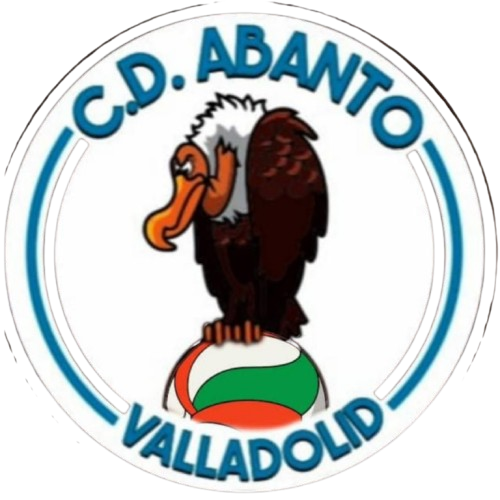
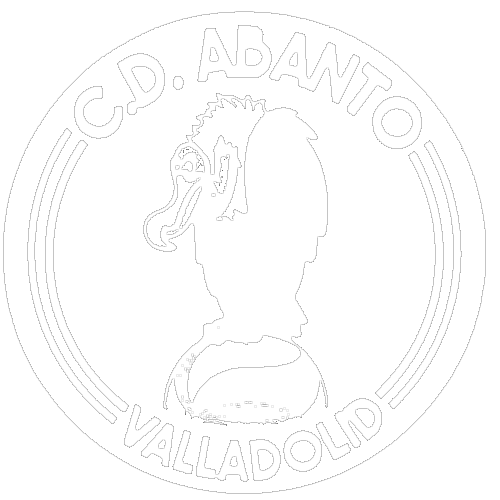
feat(escudos): actualizar escudos a blanco sin fondo de Pegamo Abanto y CVNSL Arroyo con refresco de cache

diff --git a/js/cartelera.js b/js/cartelera.js
@@ -91,8 +91,8 @@ window.renderCarteleraHTML = function(data) {
 
                 let safeLocalName = localTeamName.toLowerCase().normalize("NFD").replace(/[\u0300-\u036f]/g, "").replace(/\s+/g, '_').replace(/[^a-z0-9_]/g, '');
                 let safeVisitName = visitTeamName.toLowerCase().normalize("NFD").replace(/[\u0300-\u036f]/g, "").replace(/\s+/g, '_').replace(/[^a-z0-9_]/g, '');
-                let localLogo = `<picture><source srcset="files/images/escudos/${safeLocalName}.webp?v=20261102_v9" type="image/webp"><img loading="lazy" src="files/images/escudos/${safeLocalName}.png?v=20261102_v9" alt="${localTeamName}" onload="this.parentNode.parentNode.style.border='none'; this.parentNode.parentNode.style.background='transparent';" onerror="this.onerror=null; this.parentNode.outerHTML='<span style=\\'font-weight:900; font-size: 1.2rem;\\'>${localAbrev}</span>';" style="width:100%; height:100%; object-fit:contain;"></picture>`;
-                let visitLogo = `<picture><source srcset="files/images/escudos/${safeVisitName}.webp?v=20261102_v9" type="image/webp"><img loading="lazy" src="files/images/escudos/${safeVisitName}.png?v=20261102_v9" alt="${visitTeamName}" onload="this.parentNode.parentNode.style.border='none'; this.parentNode.parentNode.style.background='transparent';" onerror="this.onerror=null; this.parentNode.outerHTML='<span style=\\'font-weight:900; font-size: 1.2rem;\\'>${visitAbrev}</span>';" style="width:100%; height:100%; object-fit:contain;"></picture>`;
+                let localLogo = `<picture><source srcset="files/images/escudos/${safeLocalName}.webp?v=20261102_v10" type="image/webp"><img loading="lazy" src="files/images/escudos/${safeLocalName}.png?v=20261102_v10" alt="${localTeamName}" onload="this.parentNode.parentNode.style.border='none'; this.parentNode.parentNode.style.background='transparent';" onerror="this.onerror=null; this.parentNode.outerHTML='<span style=\\'font-weight:900; font-size: 1.2rem;\\'>${localAbrev}</span>';" style="width:100%; height:100%; object-fit:contain;"></picture>`;
+                let visitLogo = `<picture><source srcset="files/images/escudos/${safeVisitName}.webp?v=20261102_v10" type="image/webp"><img loading="lazy" src="files/images/escudos/${safeVisitName}.png?v=20261102_v10" alt="${visitTeamName}" onload="this.parentNode.parentNode.style.border='none'; this.parentNode.parentNode.style.background='transparent';" onerror="this.onerror=null; this.parentNode.outerHTML='<span style=\\'font-weight:900; font-size: 1.2rem;\\'>${visitAbrev}</span>';" style="width:100%; height:100%; object-fit:contain;"></picture>`;
                 
                 let infoPabellon = eq.pabellon ? `<div style="margin-top:2px; word-break:break-word; overflow-wrap:break-word; line-height:1.25;"><i data-lucide="map-pin" style="width: 12px; height: 12px; display: inline-block; vertical-align: middle; margin-top:-2px; flex-shrink:0;"></i> <span>${eq.pabellon}</span></div>` : '';
 
@@ -247,8 +247,8 @@ window.renderCarteleraHTML = function(data) {
                             <div style="display:inline-flex; align-items:center; justify-content:center; gap:6px;">
                                 <span>+${pPts} pts</span>
                                 <picture style="display:inline-flex; vertical-align:middle;">
-                                    <source srcset="files/images/escudos/${winnerSafe}.webp?v=20261102_v9" type="image/webp">
-                                    <img loading="lazy" src="files/images/escudos/${winnerSafe}.png?v=20261102_v9" alt="" onerror="this.onerror=null; this.parentNode.outerHTML='<span style=\\'font-weight:800; font-size:0.75rem;\\'>${winnerAbrev}</span>';" style="width:22px; height:22px; object-fit:contain;">
+                                    <source srcset="files/images/escudos/${winnerSafe}.webp?v=20261102_v10" type="image/webp">
+                                    <img loading="lazy" src="files/images/escudos/${winnerSafe}.png?v=20261102_v10" alt="" onerror="this.onerror=null; this.parentNode.outerHTML='<span style=\\'font-weight:800; font-size:0.75rem;\\'>${winnerAbrev}</span>';" style="width:22px; height:22px; object-fit:contain;">
                                 </picture>
                             </div>`;
                         } else {

diff --git a/js/calendario.js b/js/calendario.js
@@ -107,8 +107,8 @@ function renderMatchCardHtml(eq) {
 
     let safeLocalName = localTeamName.toLowerCase().normalize("NFD").replace(/[\u0300-\u036f]/g, "").replace(/\s+/g, '_').replace(/[^a-z0-9_]/g, '');
 let safeVisitName = visitTeamName.toLowerCase().normalize("NFD").replace(/[\u0300-\u036f]/g, "").replace(/\s+/g, '_').replace(/[^a-z0-9_]/g, '');
-let localLogo = `<picture><source srcset="files/images/escudos/${safeLocalName}.webp?v=20261102_v9" type="image/webp"><img loading="lazy" src="files/images/escudos/${safeLocalName}.png?v=20261102_v9" alt="${localTeamName}" onload="this.parentNode.parentNode.style.border='none'; this.parentNode.parentNode.style.background='transparent';" onerror="this.onerror=null; this.parentNode.outerHTML='<span style=\\'font-weight:900; font-size: 1.2rem;\\'>${localAbrev}</span>';" style="width:100%; height:100%; object-fit:contain;"></picture>`;
-let visitLogo = `<picture><source srcset="files/images/escudos/${safeVisitName}.webp?v=20261102_v9" type="image/webp"><img loading="lazy" src="files/images/escudos/${safeVisitName}.png?v=20261102_v9" alt="${visitTeamName}" onload="this.parentNode.parentNode.style.border='none'; this.parentNode.parentNode.style.background='transparent';" onerror="this.onerror=null; this.parentNode.outerHTML='<span style=\\'font-weight:900; font-size: 1.2rem;\\'>${visitAbrev}</span>';" style="width:100%; height:100%; object-fit:contain;"></picture>`;
+let localLogo = `<picture><source srcset="files/images/escudos/${safeLocalName}.webp?v=20261102_v10" type="image/webp"><img loading="lazy" src="files/images/escudos/${safeLocalName}.png?v=20261102_v10" alt="${localTeamName}" onload="this.parentNode.parentNode.style.border='none'; this.parentNode.parentNode.style.background='transparent';" onerror="this.onerror=null; this.parentNode.outerHTML='<span style=\\'font-weight:900; font-size: 1.2rem;\\'>${localAbrev}</span>';" style="width:100%; height:100%; object-fit:contain;"></picture>`;
+let visitLogo = `<picture><source srcset="files/images/escudos/${safeVisitName}.webp?v=20261102_v10" type="image/webp"><img loading="lazy" src="files/images/escudos/${safeVisitName}.png?v=20261102_v10" alt="${visitTeamName}" onload="this.parentNode.parentNode.style.border='none'; this.parentNode.parentNode.style.background='transparent';" onerror="this.onerror=null; this.parentNode.outerHTML='<span style=\\'font-weight:900; font-size: 1.2rem;\\'>${visitAbrev}</span>';" style="width:100%; height:100%; object-fit:contain;"></picture>`;
     
     let infoPabellon = eq.pabellon ? `<div style="margin-top:2px; font-size:0.75rem; color:var(--text-muted); word-break:break-word;"><i data-lucide="map-pin" style="width: 12px; height: 12px; display: inline-block; vertical-align: middle; margin-top:-2px; flex-shrink:0;"></i> <span>${eq.pabellon}</span></div>` : '';
 

diff --git a/js/cartelera_interactive.js b/js/cartelera_interactive.js
@@ -3058,8 +3058,8 @@ async function dibujarTarjetaPartidoCanvas(ctx, W, H, uName, nReal, data) {
     const safeLoc = locName.toLowerCase().normalize("NFD").replace(/[\u0300-\u036f]/g, "").replace(/\s+/g, '_').replace(/[^a-z0-9_]/g, '');
     const safeVis = visName.toLowerCase().normalize("NFD").replace(/[\u0300-\u036f]/g, "").replace(/\s+/g, '_').replace(/[^a-z0-9_]/g, '');
     const [imgLoc, imgVis] = await Promise.all([
-        cargarImagenCanvas(`files/images/escudos/${safeLoc}.webp?v=20261102_v9`),
-        cargarImagenCanvas(`files/images/escudos/${safeVis}.webp?v=20261102_v9`)
+        cargarImagenCanvas(`files/images/escudos/${safeLoc}.webp?v=20261102_v10`),
+        cargarImagenCanvas(`files/images/escudos/${safeVis}.webp?v=20261102_v10`)
     ]);
 
     const nowMs = Date.now();

diff --git a/dev.html b/dev.html
@@ -3755,10 +3755,10 @@
 <!-- Modulos JavaScript cargados en orden de dependencia (cache-busted) -->
 <script src="js/config.js?v=20261101_v13"></script>
 <script src="js/admin.js?v=20261030_v11"></script>
-<script src="js/cartelera.js?v=20261031_v13"></script>
+<script src="js/cartelera.js?v=20261102_v14"></script>
 <script src="js/ranking.js?v=20261031_v21"></script>
-<script src="js/calendario.js?v=20261031_v20"></script>
-<script src="js/cartelera_interactive.js?v=20261031_v20"></script>
+<script src="js/calendario.js?v=20261102_v21"></script>
+<script src="js/cartelera_interactive.js?v=20261102_v21"></script>
 <script src="js/ui_gestures.js?v=20261031_v20"></script>
 <script src="js/auth.js?v=20261031_v12"></script>
 <script src="js/push_notifications.js?v=20261031_v24"></script>

diff --git a/index.html b/index.html
@@ -3755,10 +3755,10 @@
 <!-- Modulos JavaScript cargados en orden de dependencia (cache-busted) -->
 <script src="js/config.js?v=20261101_v13"></script>
 <script src="js/admin.js?v=20261030_v11"></script>
-<script src="js/cartelera.js?v=20261031_v13"></script>
+<script src="js/cartelera.js?v=20261102_v14"></script>
 <script src="js/ranking.js?v=20261031_v21"></script>
-<script src="js/calendario.js?v=20261031_v20"></script>
-<script src="js/cartelera_interactive.js?v=20261031_v20"></script>
+<script src="js/calendario.js?v=20261102_v21"></script>
+<script src="js/cartelera_interactive.js?v=20261102_v21"></script>
 <script src="js/ui_gestures.js?v=20261031_v20"></script>
 <script src="js/auth.js?v=20261031_v12"></script>
 <script src="js/push_notifications.js?v=20261031_v24"></script>
